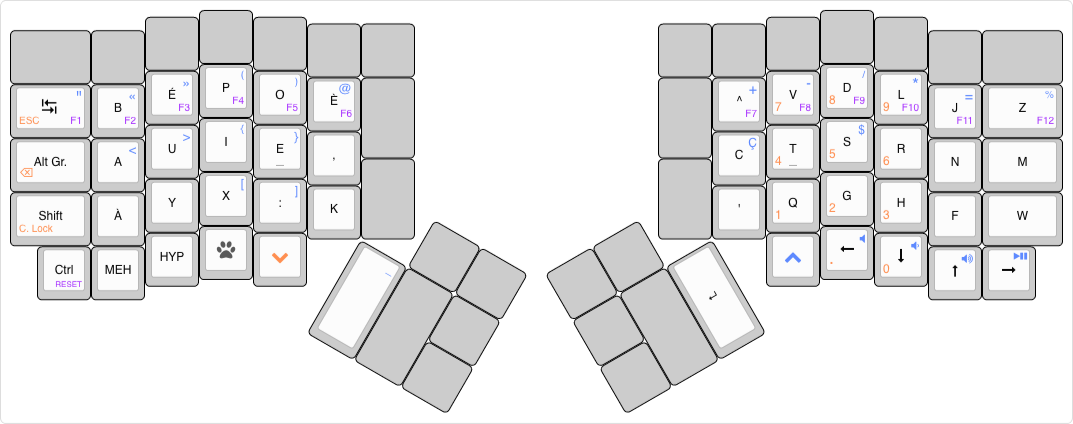
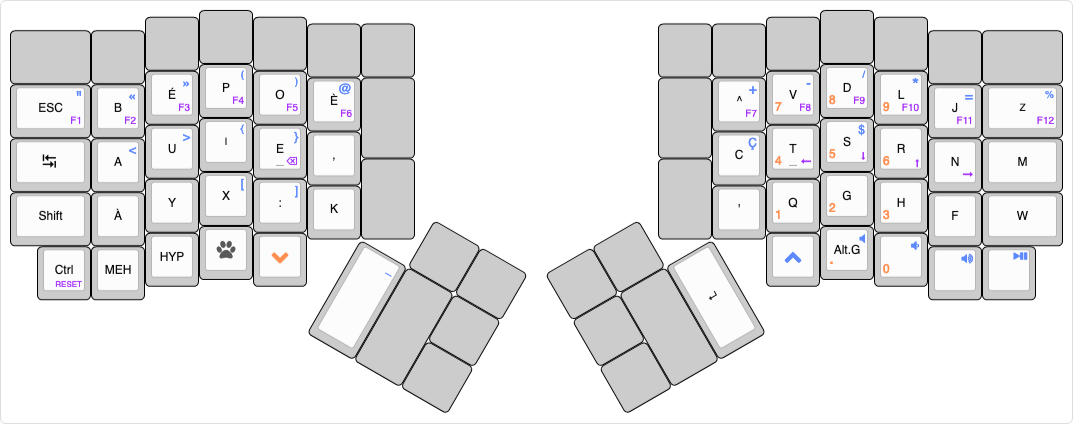
:recycle: Grosses modifications sur ESC, Tab, Directions et ALTG
Fix #4, #6, #7 et #8

diff --git a/keymap.c b/keymap.c
@@ -12,10 +12,6 @@
 
 extern keymap_config_t keymap_config;
 
-/* Custom variables */
-
-bool capsLock = false;
-
 /* Shortcodes */
 
 #define ___     KC_TRANSPARENT
@@ -41,13 +37,13 @@ const uint16_t PROGMEM keymaps[][MATRIX_ROWS][MATRIX_COLS] = {
      * ,--------------------------------------------------.           ,--------------------------------------------------.
      * |        |      |      |      |      |      |      |           |      |      |      |      |      |      |        |
      * |--------+------+------+------+------+-------------|           |------+------+------+------+------+------+--------|
-     * | Tab    |   B  |   É  |   P  |   O  |   È  |      |           |      |   ^  |   V  |   D  |   L  |   J  |   Z    |
+     * | Esc    |   B  |   É  |   P  |   O  |   È  |      |           |      |   ^  |   V  |   D  |   L  |   J  |   Z    |
      * |--------+------+------+------+------+------|      |           |      |------+------+------+------+------+--------|
-     * | Alt    |   A  |   U  |   I  |   E  |   ,  |------|           |------|   C  |   T  |   S  |   R  |   N  |   M    |
+     * | Tab    |   A  |   U  |   I  |   E  |   ,  |------|           |------|   C  |   T  |   S  |   R  |   N  |   M    |
      * |--------+------+------+------+------+------|      |           |      |------+------+------+------+------+--------|
      * | Shift  |   À  |   Y  |   X  |   .  |   K  |      |           |      |   '  |   Q  |   G  |   H  |   F  |   W    |
      * `--------+------+------+------+------+-------------'           `-------------+------+------+------+------+--------'
-     *   | Ctl  | MEH  | HYP  | GUI  | DOWN |                                       |  UP  | Left | Down |  Up  | Right|
+     *   | Ctl  | MEH  | HYP  | GUI  | DOWN |                                       |  UP  | AltG |      |      |      |
      *   `----------------------------------'                                       `----------------------------------'
      *                                        ,-------------.       ,---------------.
      *                                        |      |      |       |      |        |
@@ -61,8 +57,8 @@ const uint16_t PROGMEM keymaps[][MATRIX_ROWS][MATRIX_COLS] = {
 
         // left hand
         XXX,     XXX,        XXX,        XXX,     XXX,       XXX,        XXX,
-        KC_TAB,  BP_B,       BP_E_ACUTE, BP_P,    BP_O,      BP_E_GRAVE, XXX,
-        KC_LALT, BP_A,       BP_U,       BP_I,    BP_E,      BP_COMMA,
+        KC_ESC,  BP_B,       BP_E_ACUTE, BP_P,    BP_O,      BP_E_GRAVE, XXX,
+        KC_TAB,  BP_A,       BP_U,       BP_I,    BP_E,      BP_COMMA,
         KC_LSFT, BP_A_GRAVE, BP_Y,       BP_X,    BP_DOT,    BP_K,       XXX,
         KC_LCTL, _MEH,       _HYP,       KC_LGUI, _DOWN,
 
@@ -76,7 +72,7 @@ const uint16_t PROGMEM keymaps[][MATRIX_ROWS][MATRIX_COLS] = {
         XXX, BP_DCRC, BP_V,     BP_D,    BP_L,    BP_J,  BP_Z,
              BP_C,    BP_T,     BP_S,    BP_R,    BP_N,  BP_M,
         XXX, BP_APOS, BP_Q,     BP_G,    BP_H,    BP_F,  BP_W,
-                      _UP,      KC_LEFT, KC_DOWN, KC_UP, KC_RIGHT,
+                      _UP,      KC_RALT, XXX,     XXX,   XXX,
 
         XXX, XXX,
         XXX,
@@ -137,11 +133,11 @@ const uint16_t PROGMEM keymaps[][MATRIX_ROWS][MATRIX_COLS] = {
      * ,--------------------------------------------------.           ,--------------------------------------------------.
      * |        |      |      |      |      |      |      |           |      |      |      |      |      |      |        |
      * |--------+------+------+------+------+-------------|           |------+------+------+------+------+------+--------|
-     * | Esc    |      |      |      |      |      |      |           |      |      |  7   |  8   |  9   |      |        |
+     * |        |      |      |      |      |      |      |           |      |      |  7   |  8   |  9   |      |        |
      * |--------+------+------+------+------+------|      |           |      |------+------+------+------+------+--------|
-     * | Del    |      |      |      |      |      |------|           |------|      |  4   |  5   |  6   |      |        |
+     * |        |      |      |      |      |      |------|           |------|      |  4   |  5   |  6   |      |        |
      * |--------+------+------+------+------+------|      |           |      |------+------+------+------+------+--------|
-     * | C.Lock |      |      |      |      |      |      |           |      |      |  1   |  2   |  3   |      |        |
+     * |        |      |      |      |      |      |      |           |      |      |  1   |  2   |  3   |      |        |
      * `--------+------+------+------+------+-------------'           `-------------+------+------+------+------+--------'
      *   | Ctl  | MEH  | HYP  | GUI  | DOWN |                                       |  UP  |  .   |  0   |      |      |
      *   `----------------------------------'                                       `----------------------------------'
@@ -156,15 +152,15 @@ const uint16_t PROGMEM keymaps[][MATRIX_ROWS][MATRIX_COLS] = {
     [_DOWN_] = LAYOUT_ergodox(
 
         // left hand
-        ___,     ___, ___, ___,  ___,  ___, ___,
-        KC_ESC,  XXX, XXX, XXX,  XXX,  XXX, ___,
-        KC_BSPC, XXX, XXX, XXX,  XXX,  XXX,
-        KC_CAPS, XXX, XXX, XXX,  XXX,  XXX, ___,
-        ___,     ___, ___, ___, _DOWN,
+        ___, ___, ___, ___,  ___,  ___, ___,
+        ___, XXX, XXX, XXX,  XXX,  XXX, ___,
+        ___, XXX, XXX, XXX,  XXX,  XXX,
+        ___, XXX, XXX, XXX,  XXX,  XXX, ___,
+        ___, ___, ___, ___, _DOWN,
 
-                                       ___, ___,
-                                            ___,
-                                  ___, ___, ___,
+                                   ___, ___,
+                                        ___,
+                              ___, ___, ___,
 
 
         // right hand
@@ -187,7 +183,7 @@ const uint16_t PROGMEM keymaps[][MATRIX_ROWS][MATRIX_COLS] = {
      * |--------+------+------+------+------+-------------|           |------+------+------+------+------+------+--------|
      * |   F1   |  F2  |  F3  |  F4  |  F5  |  F6  |      |           |      |  F7  |  F8  |  F9  |  F10 |  F11 |   F12  |
      * |--------+------+------+------+------+------|      |           |      |------+------+------+------+------+--------|
-     * |        |      |      |      |      |      |------|           |------|      |      |      |      |      |        |
+     * |        |      |      |      | Del  |      |------|           |------|      | Left | Down |  Up  |Right |        |
      * |--------+------+------+------+------+------|      |           |      |------+------+------+------+------+--------|
      * |        |      |      |      |      |      |      |           |      |      |      |      |      |      |        |
      * `--------+------+------+------+------+-------------'           `-------------+------+------+------+------+--------'
@@ -204,23 +200,23 @@ const uint16_t PROGMEM keymaps[][MATRIX_ROWS][MATRIX_COLS] = {
     [_ADJUST_] = LAYOUT_ergodox(
 
         // left hand
-        XXX,   XXX,   XXX,   XXX,   XXX,   XXX,   XXX,
-        KC_F1, KC_F2, KC_F3, KC_F4, KC_F5, KC_F6, XXX,
-        XXX,   XXX,   XXX,   XXX,   XXX,   XXX,
-        XXX,   XXX,   XXX,   XXX,   XXX,   XXX, XXX,
+        XXX,   XXX,   XXX,   XXX,   XXX,     XXX,   XXX,
+        KC_F1, KC_F2, KC_F3, KC_F4, KC_F5,   KC_F6, XXX,
+        XXX,   XXX,   XXX,   XXX,   KC_BSPC, XXX,
+        XXX,   XXX,   XXX,   XXX,   XXX,     XXX,   XXX,
         RESET, XXX,   XXX,   XXX,   _DOWN,
 
-                                             XXX, XXX,
-                                                  XXX,
-                                        XXX, XXX, XXX,
+                                               XXX, XXX,
+                                                    XXX,
+                                          XXX, XXX, XXX,
 
 
         // right hand
-        XXX, XXX,   XXX,   XXX,   XXX,    XXX,    XXX,
-        XXX, KC_F7, KC_F8, KC_F9, KC_F10, KC_F11, KC_F12,
-             XXX,   XXX,   XXX,   XXX,    XXX,    XXX,
-        XXX, XXX,   XXX,   XXX,   XXX,    XXX,    XXX,
-                    _UP,   XXX,   XXX,    XXX,    XXX,
+        XXX, XXX,   XXX,     XXX,     XXX,    XXX,      XXX,
+        XXX, KC_F7, KC_F8,   KC_F9,   KC_F10, KC_F11,   KC_F12,
+             XXX,   KC_LEFT, KC_DOWN, KC_UP,  KC_RIGHT, XXX,
+        XXX, XXX,   XXX,     XXX,     XXX,    XXX,      XXX,
+                    _UP,     XXX,     XXX,    XXX,      XXX,
 
         XXX, XXX,
         XXX,
@@ -244,24 +240,10 @@ void matrix_init_user (void) {
 bool process_record_user(uint16_t keycode, keyrecord_t *record) {
     switch (keycode) {
         case KC_LSFT:
-            if (capsLock == true) {
-                break;
-            }
             if (record->event.pressed) {
                 ergodox_right_led_1_on();
             } else {
                 ergodox_right_led_1_off();
-            }
-            break;
-        case KC_CAPS:
-            if (record->event.pressed) {
-                if (capsLock == true) {
-                    capsLock = false;
-                    ergodox_right_led_1_off();
-                } else {
-                    capsLock = true;
-                    ergodox_right_led_1_on();
-                }
             }
             break;
         case _DOWN:
